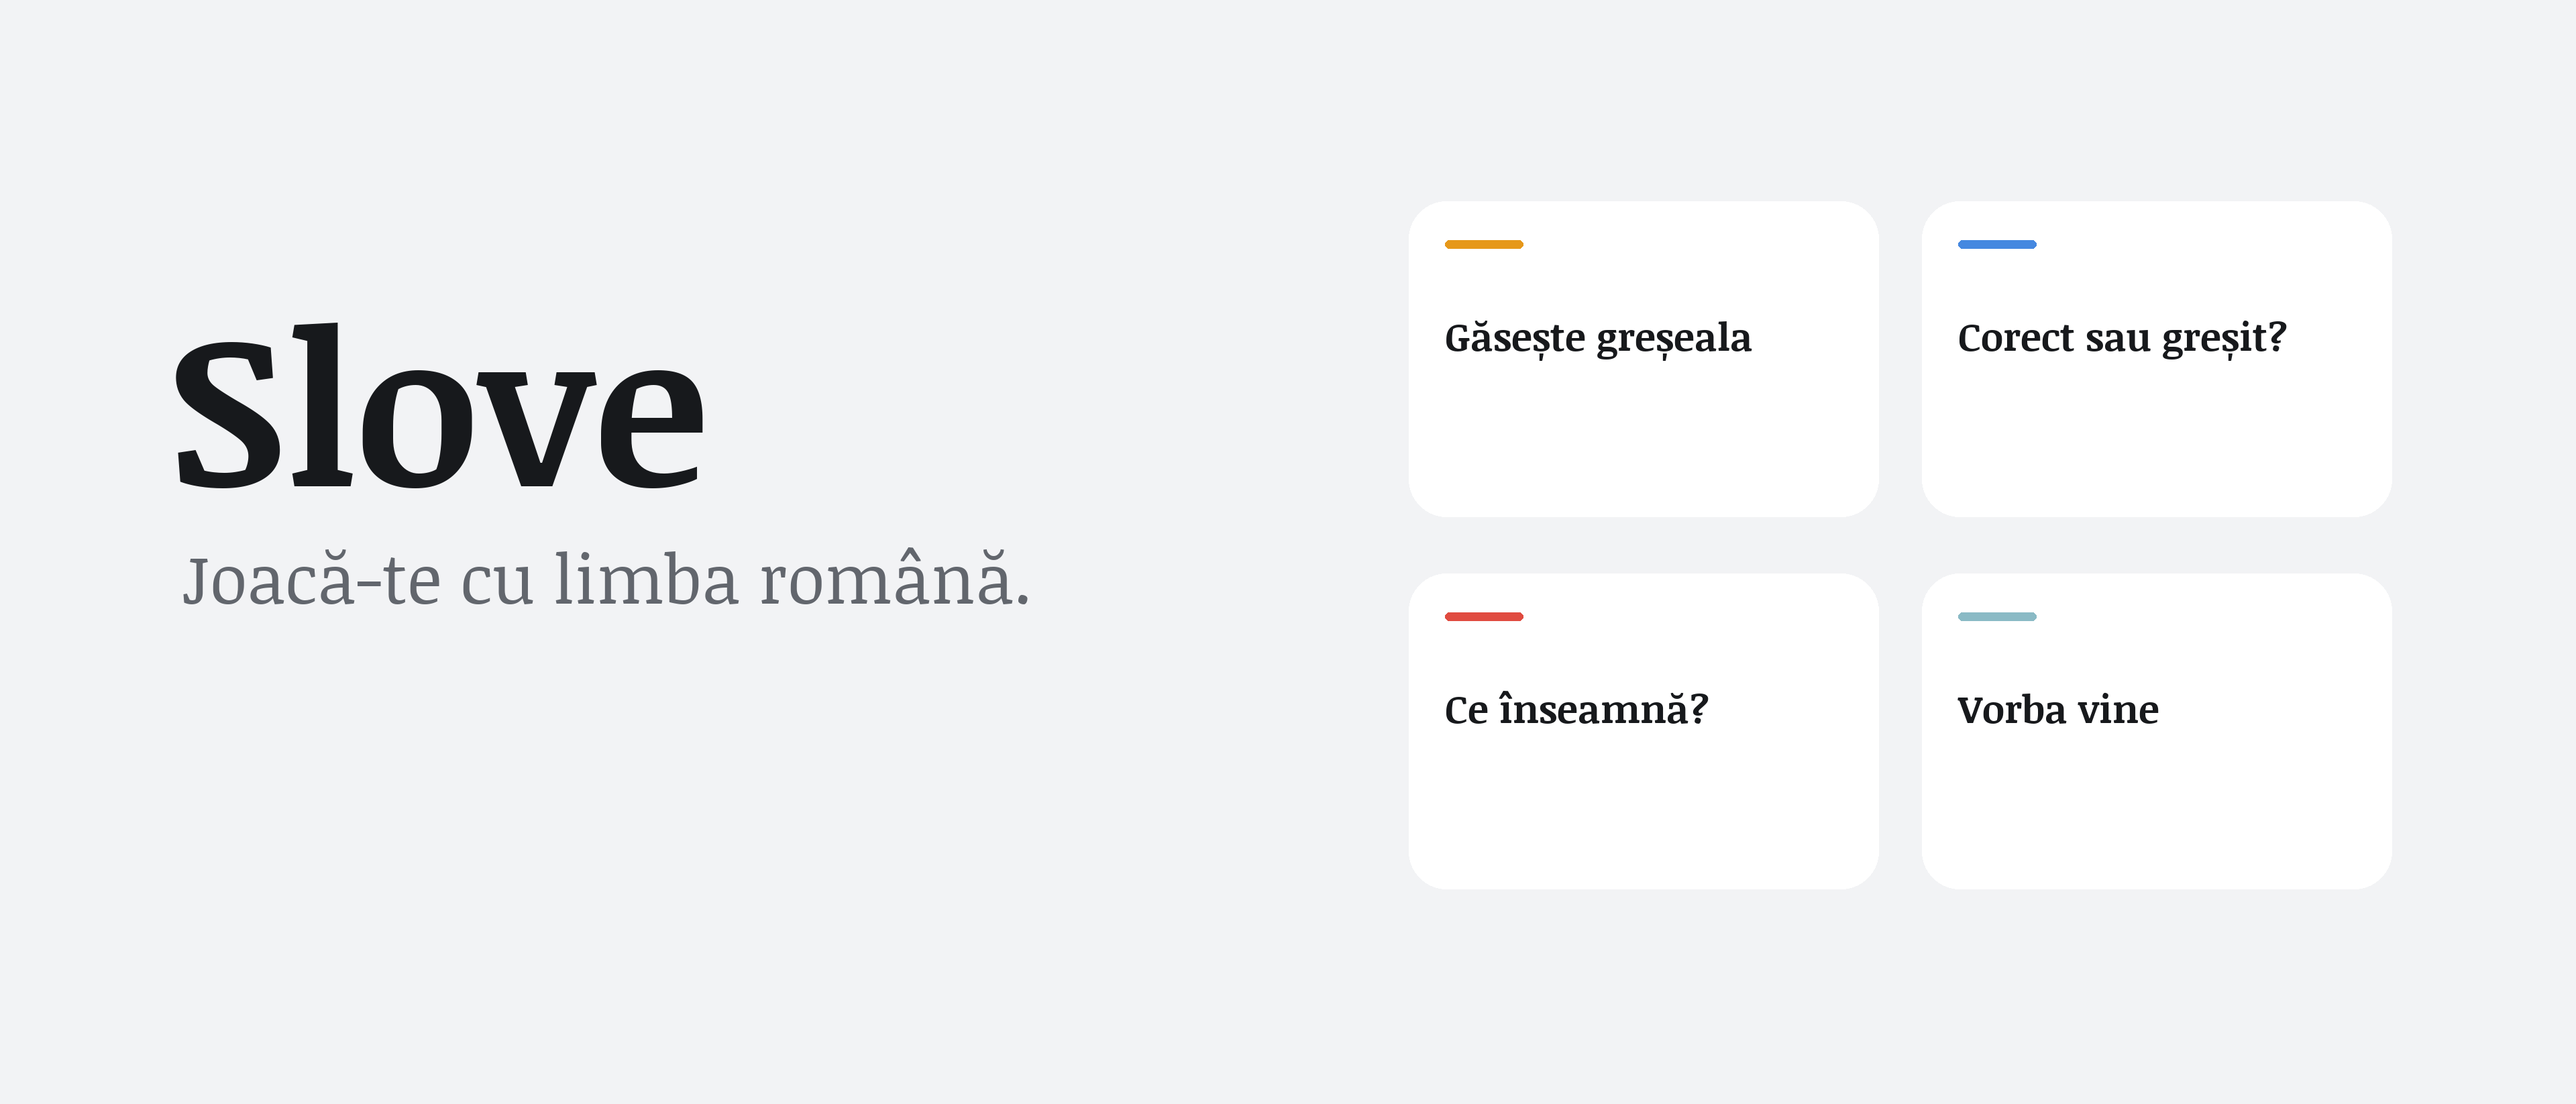
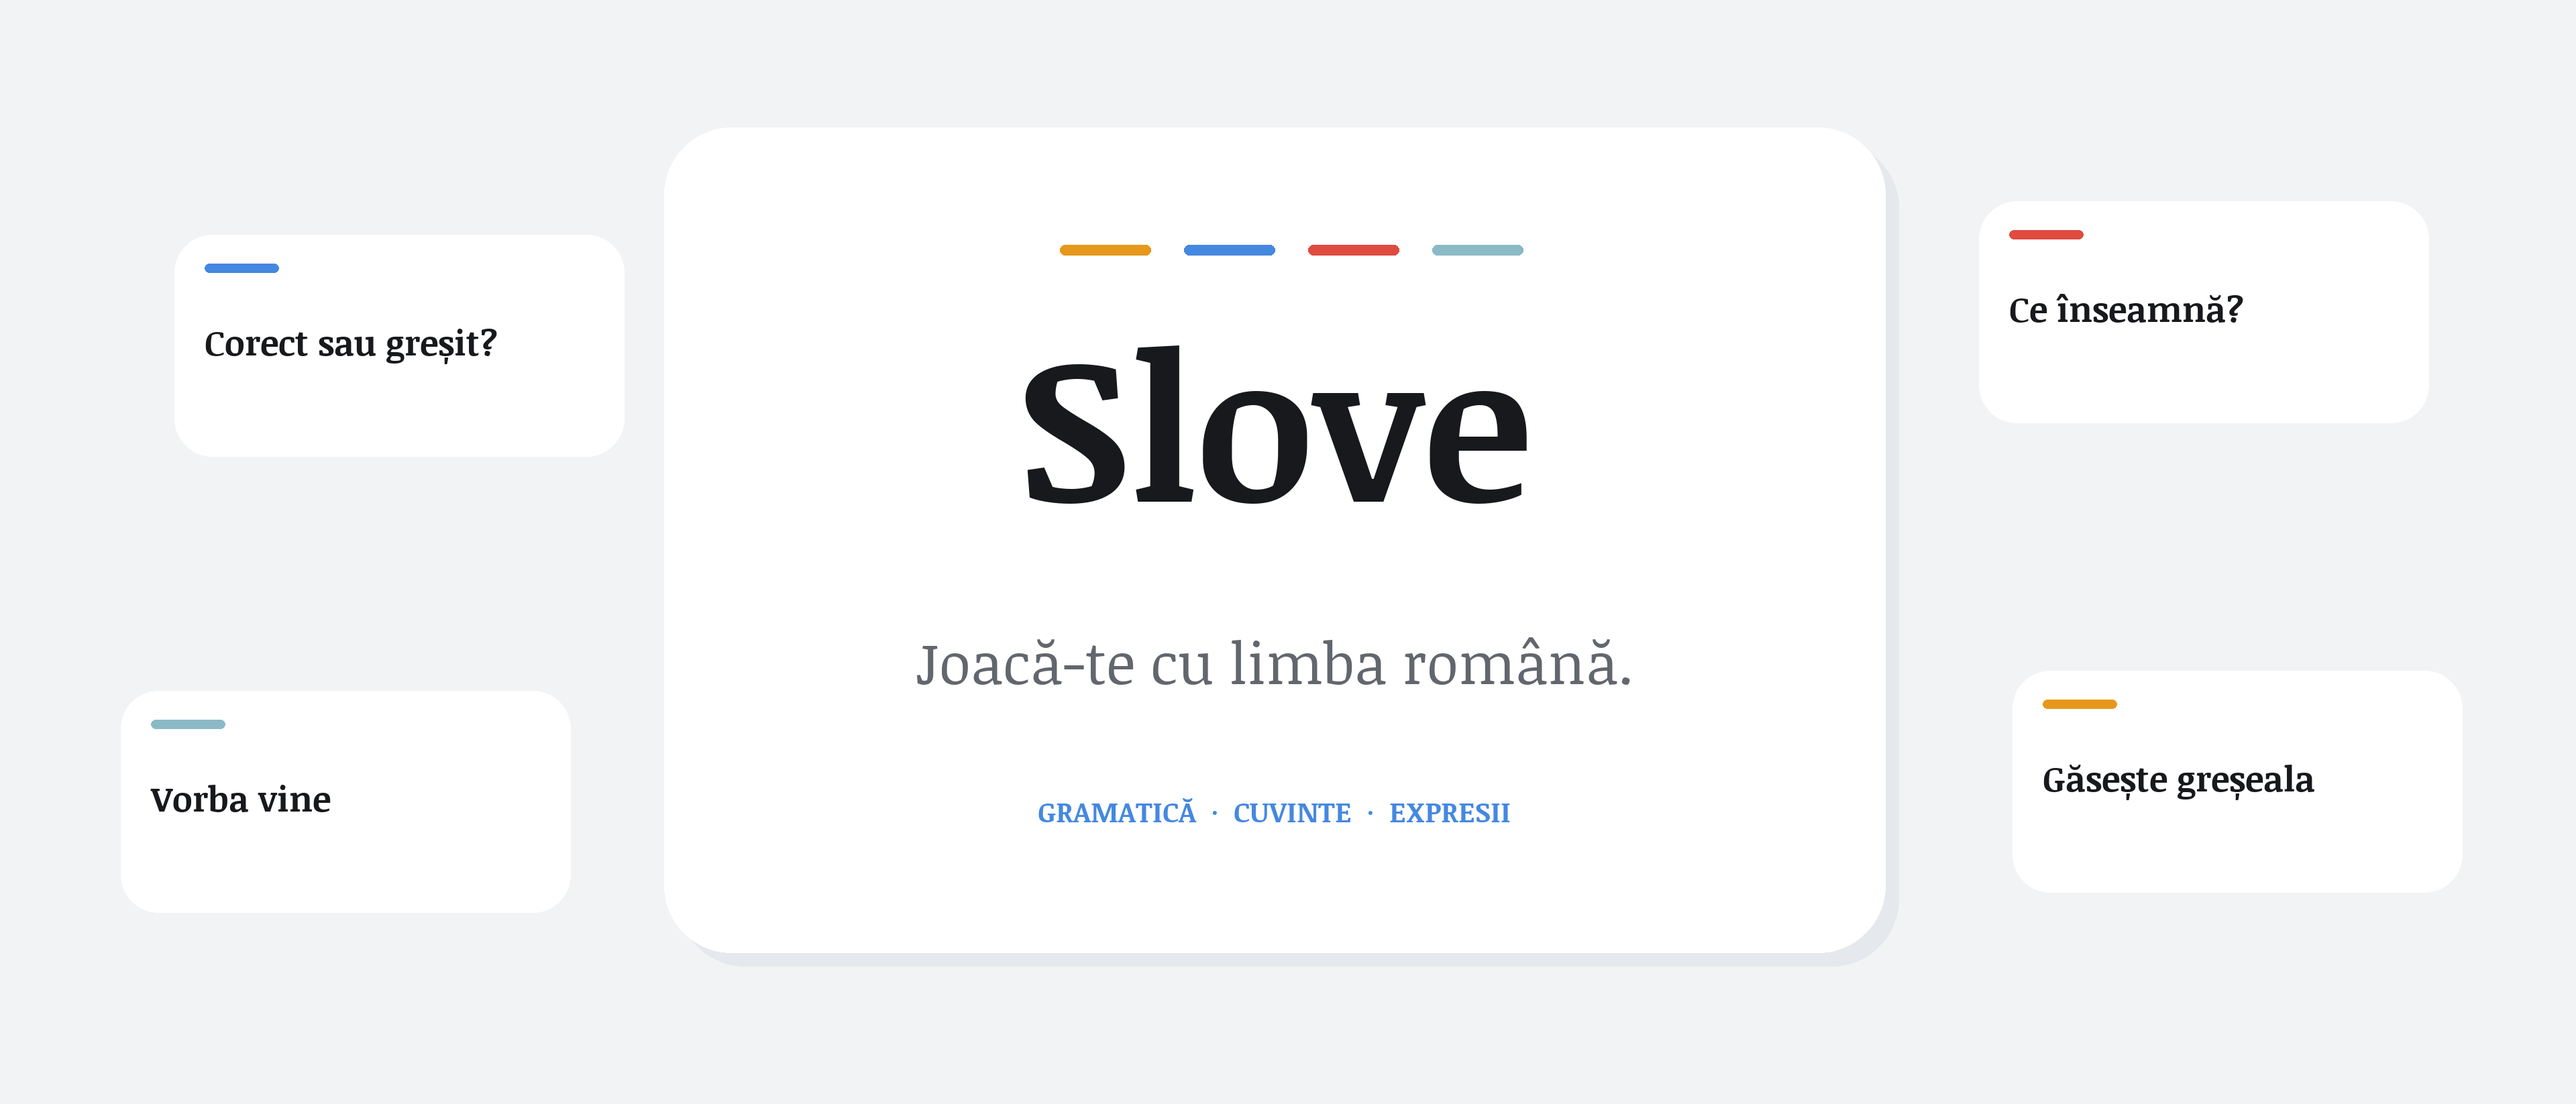
assets: recenter App Store header for mobile crop (#14)

diff --git a/scripts/prepare_store_assets.py b/scripts/prepare_store_assets.py
@@ -98,22 +98,51 @@ def create_app_store_creative_assets(directory: Path) -> None:
 
     header = Image.new("RGB", (3840, 1646), "#F2F3F5")
     draw = ImageDraw.Draw(header)
-    draw.text((250, 380), "Slove", font=load_font("NoticiaText-Bold.ttf", 320), fill="#17191C")
+
+    # Keep the message in the central crop; App Store shows only part of the
+    # wide header on iPhone, with navigation controls over its upper corners.
+    draw.rounded_rectangle((1010, 210, 2830, 1440), radius=100, fill="#E5E8EC")
+    draw.rounded_rectangle((990, 190, 2810, 1420), radius=100, fill="white")
+
+    for index, (_, color) in enumerate(games):
+        x = 1580 + index * 185
+        draw.rounded_rectangle((x, 365, x + 135, 380), radius=7, fill=color)
+
     draw.text(
-        (270, 790),
-        "Joacă-te cu limba română.",
-        font=load_font("NoticiaText-Regular.ttf", 102),
-        fill="#62666D",
+        (1900, 515),
+        "Slove",
+        font=load_font("NoticiaText-Bold.ttf", 305),
+        fill="#17191C",
+        anchor="mt",
     )
-    for index, (title, color) in enumerate(games):
-        x = 2100 + (index % 2) * 765
-        y = 300 + (index // 2) * 555
-        draw.rounded_rectangle((x, y, x + 700, y + 470), radius=56, fill="white")
-        draw.rounded_rectangle((x + 54, y + 58, x + 170, y + 70), radius=6, fill=color)
+    draw.text(
+        (1900, 950),
+        "Joacă-te cu limba română.",
+        font=load_font("NoticiaText-Regular.ttf", 86),
+        fill="#62666D",
+        anchor="mt",
+    )
+    draw.text(
+        (1900, 1190),
+        "GRAMATICĂ  ·  CUVINTE  ·  EXPRESII",
+        font=load_font("NoticiaText-Bold.ttf", 42),
+        fill="#4588E0",
+        anchor="mt",
+    )
+
+    # Peripheral word cards add context without carrying essential information.
+    for x, y, title, color in (
+        (260, 350, "Corect sau greșit?", "#4588E0"),
+        (2950, 300, "Ce înseamnă?", "#E04B40"),
+        (180, 1030, "Vorba vine", "#8ABAC5"),
+        (3000, 1000, "Găsește greșeala", "#E6981A"),
+    ):
+        draw.rounded_rectangle((x, y, x + 670, y + 330), radius=56, fill="white")
+        draw.rounded_rectangle((x + 45, y + 43, x + 155, y + 56), radius=6, fill=color)
         draw.text(
-            (x + 54, y + 160),
+            (x + 45, y + 124),
             title,
-            font=load_font("NoticiaText-Bold.ttf", 58),
+            font=load_font("NoticiaText-Bold.ttf", 52),
             fill="#17191C",
         )
 

diff --git a/revision-log/2026-10-14-app-store-cover.md b/revision-log/2026-10-14-app-store-cover.md
@@ -1,0 +1,32 @@
+# Review: App Store cover redesign
+**Date:** 2026-10-14
+**Session:** Recentered and regenerated the App Store product-page header for mobile cropping.
+
+## History Checked
+- `2026-10-07-separate-content-deployment.md`
+- `2026-10-02-staging-play-upload.md`
+- `2026-09-01-spec-44-game-list-progress-cards.md`
+- `2026-09-01-spec-42-difficulty-ordered-serving.md`
+- `2026-09-01-spec-41-discovery-progress.md`
+
+## Recurring Patterns
+- None found relevant to the cover redesign. The unrelated working-tree changes noted in earlier logs were left untouched.
+
+## Scores
+| Dimension | Score |
+|-----------|-------|
+| Friction | 0.2 |
+| Repetition | 0.0 |
+| Missing capability | 0.1 |
+| Knowledge gap | 0.2 |
+| Fragility | 0.4 |
+
+## Suggestions
+No significant improvement opportunities found.
+
+## Changes Made
+- No process changes required.
+
+## Notes
+- Checked a crop approximating the supplied iPhone placement; actual App Store placement still needs visual confirmation after upload.
+- Verified header dimensions and RGB mode, compiled the generator, and ran `git diff --check`.
